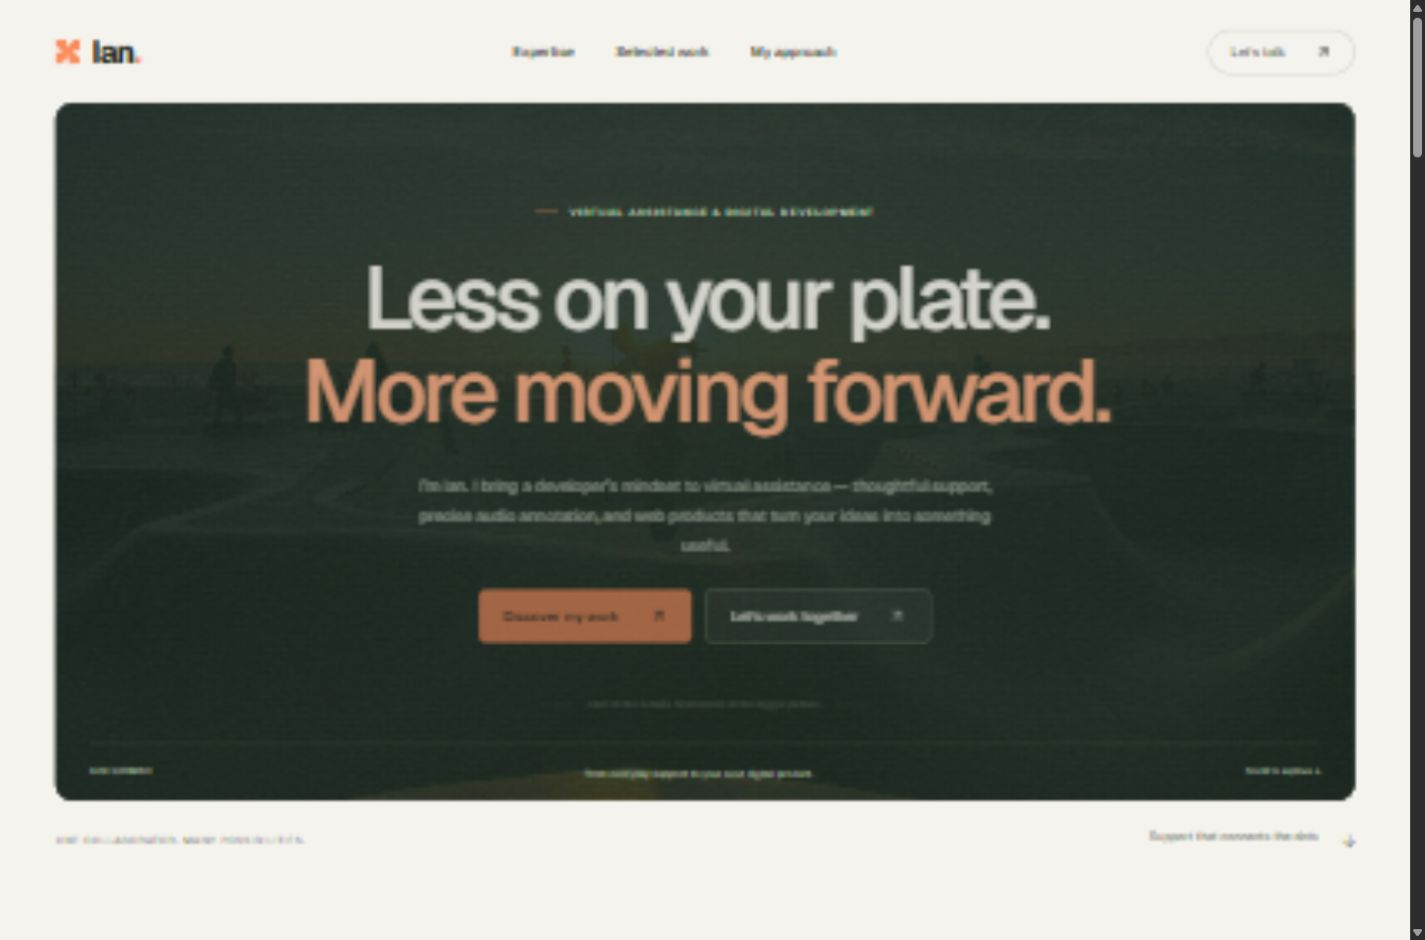
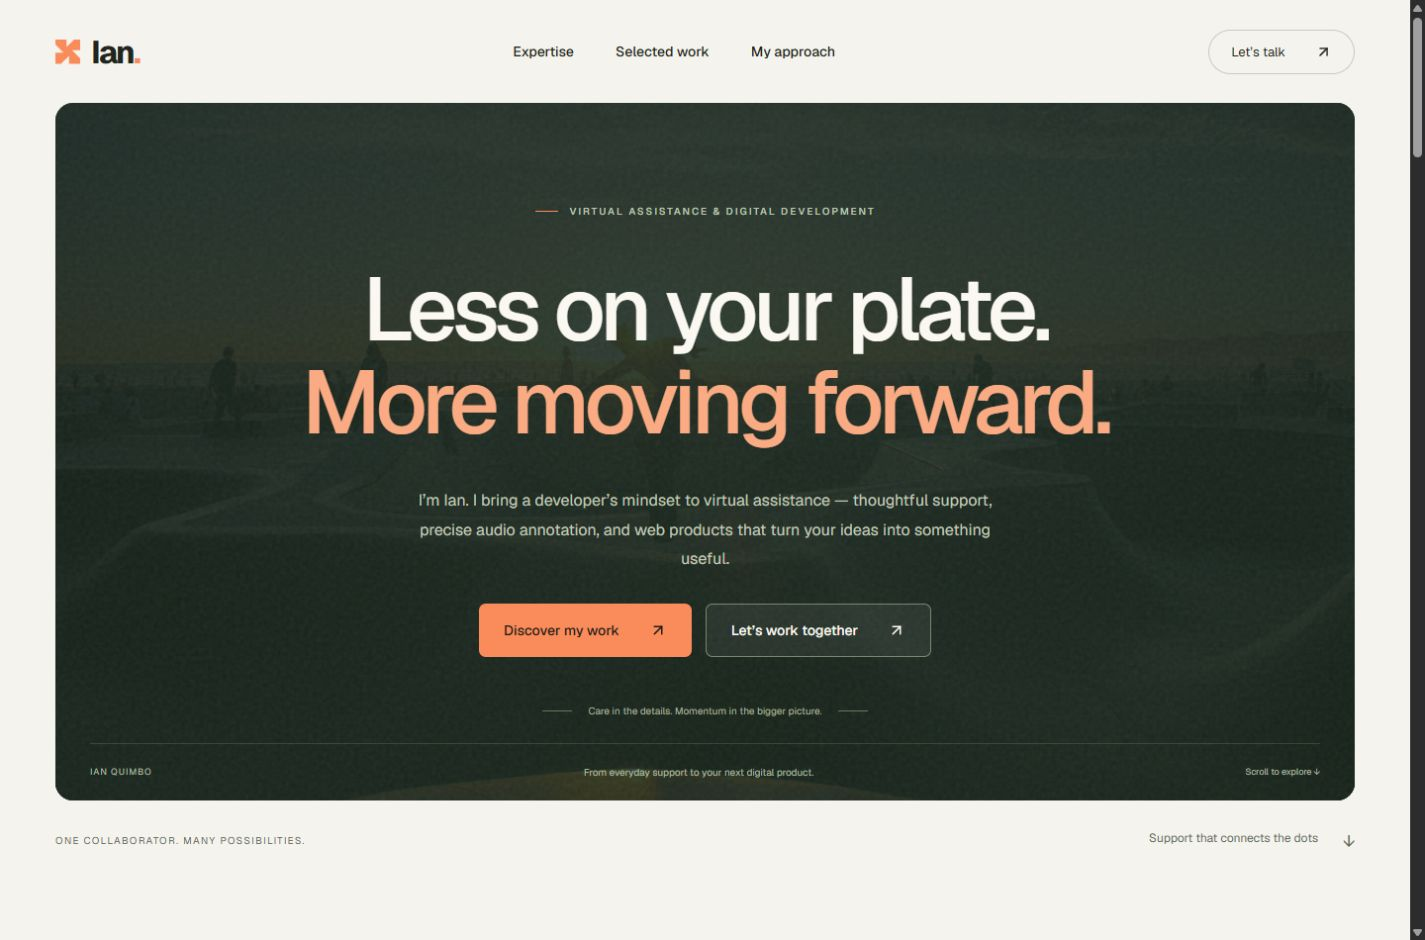
second

diff --git a/src/main.jsx b/src/main.jsx
@@ -12,7 +12,7 @@ const profile = { name: 'Ian', email: 'ian.quimbo2004@gmail.com', whatsapp: '639
 const toolGroups = {
   'Development': ['React.js', 'Next.js', 'Node.js', 'Python', 'Expo', 'Java', 'JavaScript', 'PHP', 'C', 'Express', 'Laravel'],
   'Data & delivery': ['Supabase', 'MongoDB', 'MongoDB Atlas', 'Git', 'GitHub', 'Version Control', 'SaaS', 'Vercel'],
-  'Creative & productivity': ['Canva', 'Excel', 'Word', 'Zoom', 'Trello', 'ChatGPT', 'Claude', 'Gemini', 'Figma'],
+  'Creative & productivity': ['Google Workspace', 'Canva', 'Excel', 'Word', 'Zoom', 'Trello', 'ChatGPT', 'Claude', 'Gemini', 'Figma'],
 };
 const projects = [
   { id: 'studio', name: 'Class Scheduling System', subtitle: 'Structure for a busy academic timetable.', description: 'A class scheduling application built with the MERN stack, bringing full-stack development to an everyday academic workflow.', tags: ['MongoDB', 'Express', 'React', 'Node.js'], type: 'Full-stack web application', url: 'https://github.com/Ryuen-1/Class-Scheduling', detail: 'My Class Scheduling System brings together MongoDB, Express, React, and Node.js in an academic scheduling application. It highlights my ability to connect a frontend interface with a backend and database. Explore the repository for the implementation.' },
@@ -43,7 +43,7 @@ function App() {
   useGSAP(() => {
     const mm = gsap.matchMedia();
     mm.add('(min-width: 900px) and (prefers-reduced-motion: no-preference)', () => {
-      gsap.from('.hero h1, .hero-copy, .hero-signature', { y: 24, opacity: 0, duration: .9, stagger: .12, ease: 'power3.out' });
+      gsap.from('.hero h1, .hero-copy, .hero-signature', { y: 24, duration: .9, stagger: .12, ease: 'power3.out' });
       gsap.from('.service', { y: 45, opacity: 0, stagger: .14, duration: .8, scrollTrigger: { trigger: '.bento', start: 'top 85%', once: true } });
       gsap.utils.toArray('.project-visual').forEach(card => gsap.fromTo(card, { scale: .96 }, { scale: 1, ease: 'none', scrollTrigger: { trigger: card, start: 'top 90%', end: 'top 45%', scrub: true } }));
       ScrollTrigger.create({ trigger: '.work-layout', start: 'top 110px', end: 'bottom bottom', pin: '.work-intro', pinSpacing: false });
@@ -75,7 +75,7 @@ function App() {
     <header className="nav wrap"><a href="#" className="wordmark" aria-label="Ian home"><span className="brand-shape"/> {profile.name}<span className="orange-text">.</span></a><nav className={menu ? 'nav-links open' : 'nav-links'} aria-label="Main navigation">{[['Expertise', '#expertise'], ['Selected work', '#work'], ['My approach', '#approach']].map(([label, href]) => <a href={href} key={href} onClick={() => setMenu(false)}>{label}</a>)}</nav><button className="nav-contact" onClick={connect}>Let’s talk <ArrowUpRight size={17}/></button><button className="menu-button" aria-label="Toggle navigation" aria-expanded={menu} onClick={() => setMenu(!menu)}>{menu ? <X/> : <Menu/>}</button></header>
     <section className="hero wrap"><div className="hero-backdrop" aria-hidden="true"/><div className="hero-content"><div className="eyebrow"><span className="tiny-line"/> VIRTUAL ASSISTANCE & DIGITAL DEVELOPMENT</div><h1>Less on your plate.<br/><span>More moving forward.</span></h1><div className="hero-copy"><p>I’m {profile.name}. I bring a developer’s mindset to virtual assistance — thoughtful support, precise audio annotation, and web products that turn your ideas into something useful.</p><div className="hero-actions"><a className="button orange" href="#work">Discover my work <ArrowUpRight size={18}/></a><button className="button hero-secondary" onClick={connect}>Let’s work together <ArrowUpRight size={18}/></button></div></div><div className="hero-signature"><span className="signature-line"/><span>Care in the details. Momentum in the bigger picture.</span><span className="signature-line"/></div></div><div className="hero-bottomline"><span>IAN QUIMBO</span><span>From everyday support to your next digital product.</span><a href="#expertise" aria-label="Explore expertise">Scroll to explore ↓</a></div></section>
     <div className="intro-rule wrap"><span>ONE COLLABORATOR. MANY POSSIBILITIES.</span><span>Support that connects the dots <ArrowDown/></span></div>
-    <section id="expertise" className="expertise section wrap"><div className="section-head"><h2>A versatile skill set.<br/><span>A focused approach.</span></h2><p>Bring me the everyday details or the ambitious idea.<br className="desktop-break"/> I’ll help you find a clear way forward.</p></div><div className="bento"><article className="service admin-service"><div className="service-icon"><Layers size={23}/></div><div><h3>Keep the day running.</h3><p>Documents, spreadsheets, task coordination, and thoughtful day-to-day support that gives you room to focus.</p></div><div className="checklist"><div className="checklist-head"><span>The details, handled.</span><FileText size={16}/></div>{['A clear, organized spreadsheet', 'Documents ready to share', 'Tasks with a next step'].map(t => <div key={t}><span><Check size={13}/></span>{t}</div>)}<small>LESS FRICTION. MORE FOCUS.</small></div><span className="service-foot">Virtual assistance & productivity <ArrowUpRight size={17}/></span></article><article className="service audio-service"><div className="service-top"><div className="service-icon"><Headphones size={22}/></div><span className="service-category">AUDIO ANNOTATION</span></div><h3>Make every word count.</h3><p>Careful listening, consistent labeling, and a detail-first approach to audio annotation.</p><Waveform small/><span className="sample-note">Speaker labels · careful listening · consistent annotation</span></article><article className="service dev-service"><div className="service-top"><div className="service-icon"><Code2 size={23}/></div><span className="service-category">FULL-STACK DEVELOPMENT</span></div><h3>Build the next thing.</h3><p>Responsive frontends, reliable backends, SaaS web applications, and MVP prototypes built around your idea.</p><div className="dev-bottom"><span>Frontend · Backend · SaaS · MVP</span><ArrowUpRight size={22}/></div></article></div></section>
+    <section id="expertise" className="expertise section wrap"><div className="section-head"><h2>A versatile skill set.<br/><span>A focused approach.</span></h2><p>Bring me the everyday details or the ambitious idea.<br className="desktop-break"/> I’ll help you find a clear way forward.</p></div><div className="bento"><article className="service admin-service"><div className="service-icon"><Layers size={23}/></div><div><h3>Keep the day running.</h3><p>Expert support in data entry, calendar scheduling, file organization, basic research, and Google Workspace — keeping your everyday work accurate, organized, and moving.</p></div><div className="checklist"><div className="checklist-head"><span>The details, handled.</span><FileText size={16}/></div>{['Accurate data entry & spreadsheets', 'Calendars scheduled & coordinated', 'Files organized & easy to find', 'Basic research, clearly summarized', 'Google Workspace, confidently handled'].map(t => <div key={t}><span><Check size={13}/></span>{t}</div>)}<small>LESS FRICTION. MORE FOCUS.</small></div><span className="service-foot">Virtual assistance & productivity <ArrowUpRight size={17}/></span></article><article className="service audio-service"><div className="service-top"><div className="service-icon"><Headphones size={22}/></div><span className="service-category">AUDIO ANNOTATION</span></div><h3>Make every word count.</h3><p>Careful listening, consistent labeling, and a detail-first approach to audio annotation.</p><Waveform small/><span className="sample-note">Speaker labels · careful listening · consistent annotation</span></article><article className="service dev-service"><div className="service-top"><div className="service-icon"><Code2 size={23}/></div><span className="service-category">FULL-STACK DEVELOPMENT</span></div><h3>Build the next thing.</h3><p>Responsive frontends, reliable backends, SaaS web applications, and MVP prototypes built around your idea.</p><div className="dev-bottom"><span>Frontend · Backend · SaaS · MVP</span><ArrowUpRight size={22}/></div></article></div></section>
     <section className="tools"><div className="wrap tool-heading"><span>GOOD WORK STARTS WITH THE RIGHT TOOLS.</span><button onClick={() => setExpanded(!expanded)} aria-expanded={expanded} aria-controls="tool-list">{expanded ? 'Close toolkit' : 'Explore my toolkit'} {expanded ? <Minus size={16}/> : <Plus size={16}/>}</button></div><div className="marquee" aria-label="React, Next.js, Python, Supabase, Figma, Canva, Excel, Laravel"><div className="marquee-track">{[0, 1].map(n => <div className="marquee-set" aria-hidden={n === 1} key={n}>{['React', 'Next.js', 'Python', 'Supabase', 'Figma', 'Canva', 'Excel', 'Laravel'].map(t => <span key={t}>{t}<i/></span>)}</div>)}</div></div>{expanded && <div id="tool-list" className="tool-groups wrap">{Object.entries(toolGroups).map(([name, tools]) => <div key={name}><h3>{name}</h3><div>{tools.map(t => <span key={t}>{t}</span>)}</div></div>)}</div>}</section>
     <section id="work" className="work section wrap"><div className="work-layout"><div className="work-intro"><span className="eyebrow">SELECTED PROJECTS</span><h2>Real problems.<br/>Working <span className="italic">solutions.</span></h2><p>From academic scheduling to machine learning and SaaS — three projects that bring my technical range into focus.</p><a className="text-button" href="#contact">Have an idea in mind? <ArrowUpRight size={17}/></a><div className="concept-note"><span/> Explore the source code on GitHub. Card visuals are project illustrations.</div></div><div className="project-list">{projects.map((p, i) => <article className={`project project-${p.id}`} key={p.id}><button className="project-visual" onClick={() => setProject(p)} aria-label={`Explore ${p.name}`}><div className="project-visual-label"><span>{p.type.toUpperCase()}</span><span>0{i + 1} <ArrowUpRight size={18}/></span></div><div className="preview-container"><ProjectArtwork project={p}/></div><span className="visual-bottom">{p.type}<span>Project details <ArrowUpRight size={14}/></span></span></button><div className="project-info"><div><span className="project-subtitle">{p.subtitle}</span><h3>{p.name}</h3><p>{p.description}</p></div><button onClick={() => setProject(p)} className="circle-button" aria-label={`Read about ${p.name}`}><ArrowUpRight size={21}/></button></div><div className="project-tags">{p.tags.map(t => <span key={t}>{t}</span>)}<a className="project-repo" href={p.url} target="_blank" rel="noreferrer">View on GitHub <ArrowUpRight size={12}/></a></div></article>)}</div></div></section>
     <section id="approach" className="approach section wrap"><div className="approach-top"><span className="eyebrow">HOW I WORK</span><span>A calm process. A clear next step.</span></div><div className="approach-photo" aria-hidden="true"/><h2 className="statement">{'Clear communication. Organized execution. Space for better ideas.'.split(' ').map((word, i) => <React.Fragment key={i}><span>{word}</span>{' '}</React.Fragment>)}</h2><div className="accordions">{[{ title: 'Understand the work', body: 'We start with your goals, your workflow, and the details that matter. A shared understanding makes everything that follows easier.' }, { title: 'Make a clear plan', body: 'I turn the brief into manageable steps, align on priorities, and keep the next action visible. You know what’s happening and why.' }, { title: 'Build and refine', body: 'I work carefully, communicate progress, and use your feedback to improve the result. Useful work comes from thoughtful iteration.' }].map((a, i) => <div className={`approach-panel ${approach === i ? 'active' : ''}`} key={a.title} onMouseEnter={() => { if (window.matchMedia('(hover: hover)').matches) setApproach(i); }}><button onClick={() => setApproach(i)} aria-expanded={approach === i} aria-controls={`approach-${i}`}><span className="step-dot"/><h3>{a.title}</h3>{approach === i ? <Minus size={18}/> : <Plus size={18}/>}</button>{approach === i && <div id={`approach-${i}`}><div className="process-visual" aria-hidden="true">{i === 0 ? <Search size={35}/> : i === 1 ? <Layers size={35}/> : <Code2 size={35}/>}<span>{i === 0 ? 'Listen & align' : i === 1 ? 'Prioritize & organize' : 'Create & improve'}</span></div><p>{a.body}</p></div>}</div>)}</div></section>
@@ -86,6 +86,7 @@ function App() {
 function ArrowDown() { return <span aria-hidden="true">↓</span>; }
 
 createRoot(document.getElementById('root')).render(<App/>);
+
 
 
 
